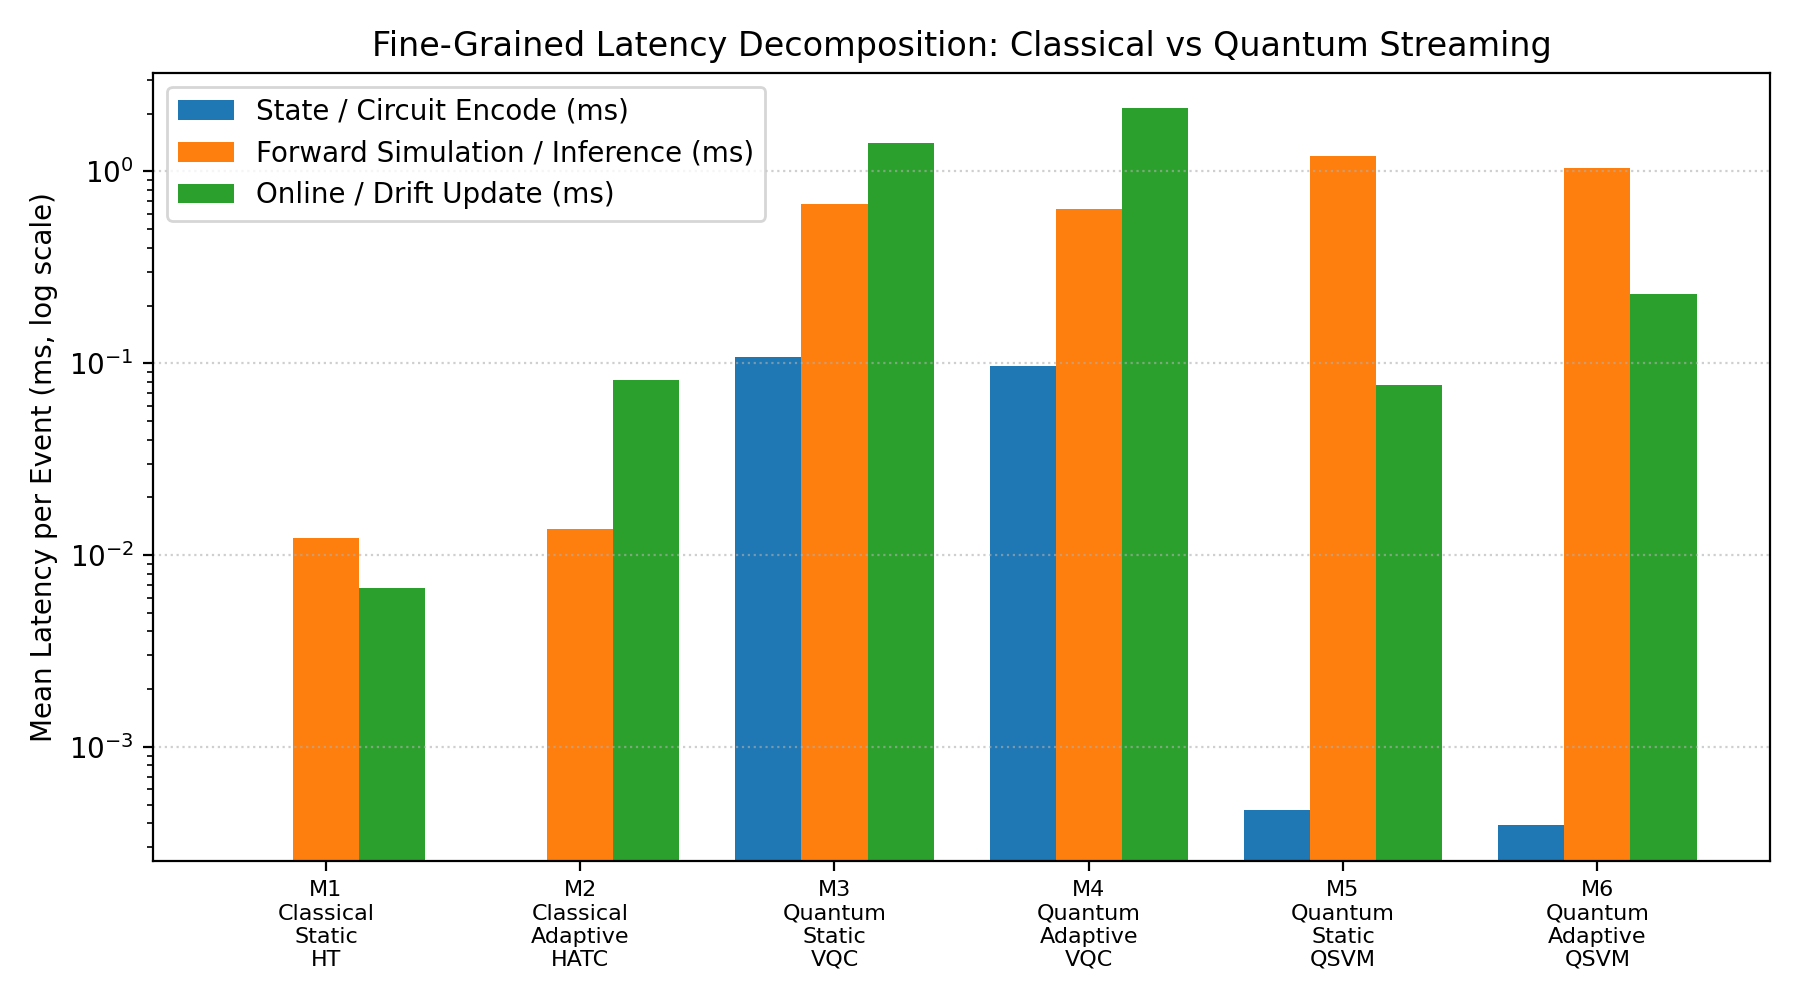
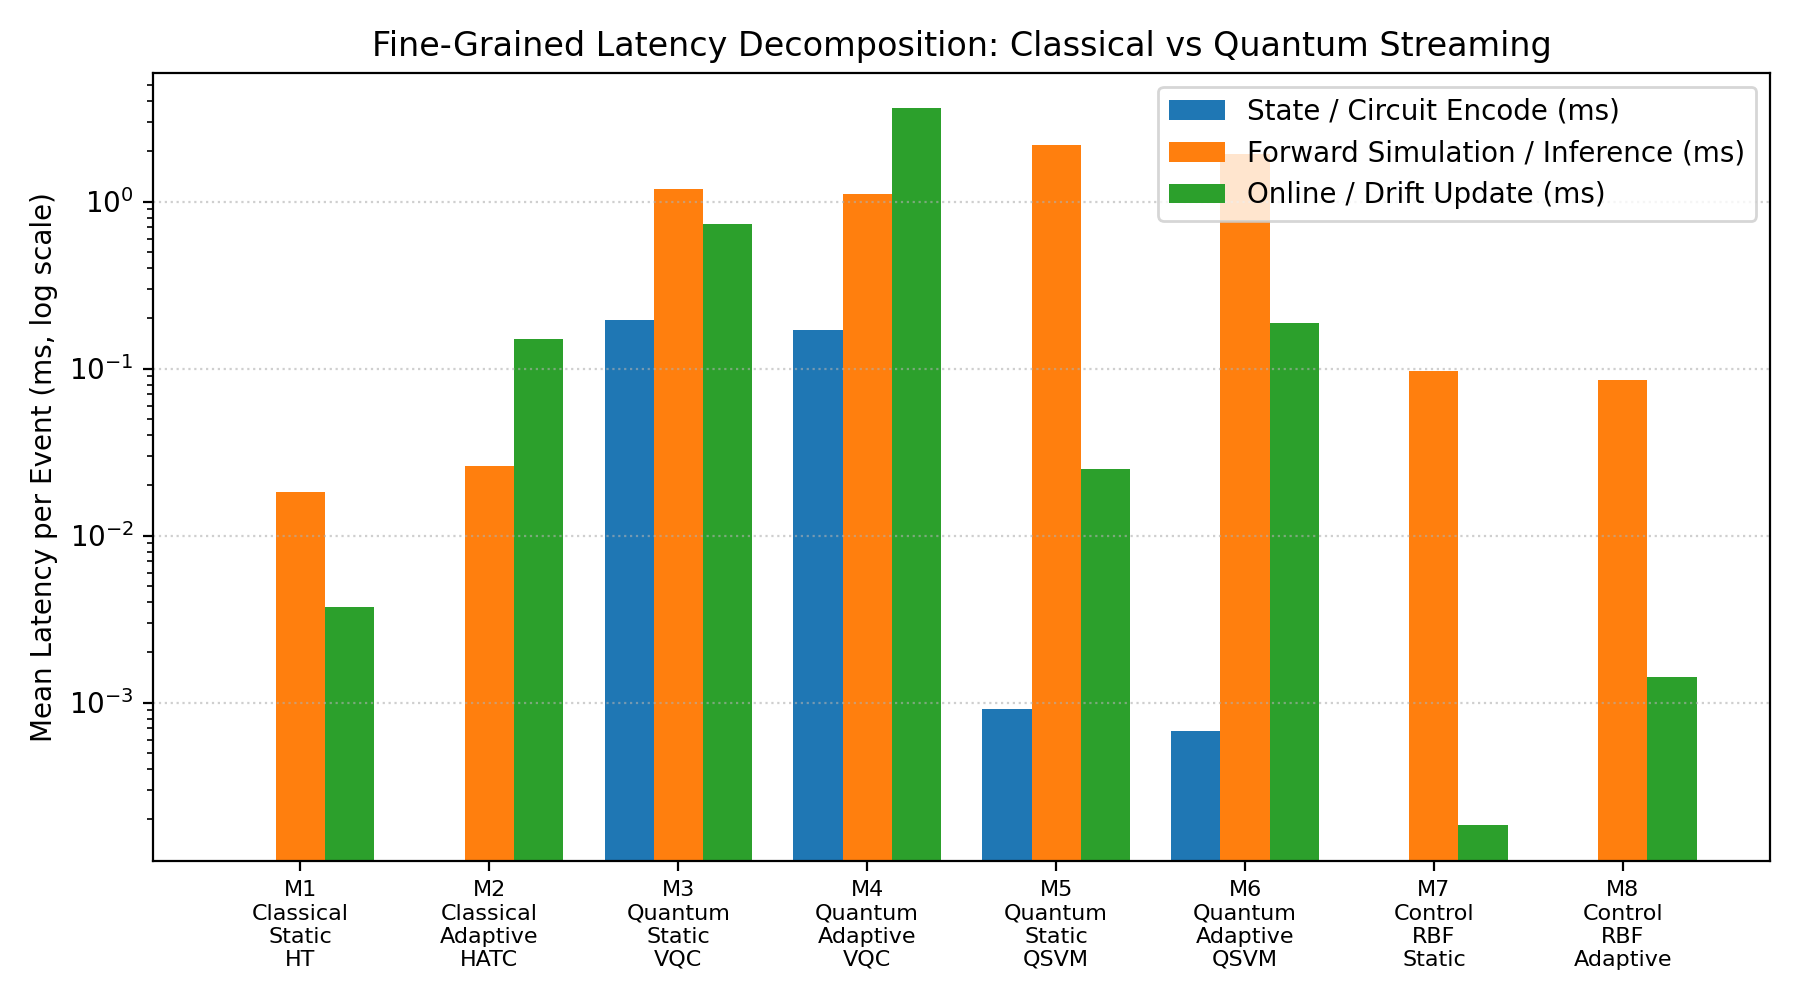
Adaptation diagnostics fix, comparable recovery episodes, docs sync, demo script
- M6 support-churn tracking (crashed adaptation diagnostics at first live
  drift alert); regression test added
- Drift alerts now open recovery episodes for ALL models so static-vs-adaptive
  N_recovery is comparable under the same alert (Hypothesis 2)
- PLAN.md: 4x2 matrix table + diagram, operational N_recovery definition,
  verified-latency wording
- README: N_recovery semantics (dip, sustain, horizon, censoring)
- experiments/demo_script.md: <=10 min walkthrough with pre-demo checklist
- docker-compose: drop obsolete version key

diff --git a/experiments/plots/ieee_results_table.tex b/experiments/plots/ieee_results_table.tex
@@ -1,16 +1,18 @@
 \begin{table}[htbp]
 \centering
-\caption{Prequential Accuracy, Latency Decomposition, and Drift Recovery on ELEC2}
+\caption{Prequential Accuracy (post-warmup), Latency Decomposition, and Drift Recovery on ELEC2}
 \begin{tabular}{lccccc}
 \hline
-Model & Cum. Acc. & Rolling F1 & $t_{\text{enc}}$ (ms) & $t_{\text{sim}}$ (ms) & $N_{\text{recovery}}$ \\
+Model & Acc. & Rolling F1 & $t_{\text{enc}}$ (ms) & $t_{\text{sim}}$ (ms) & $N_{\text{recovery}}$ \\
 \hline
-M1\_Classical\_Static\_HT & 0.825 & 0.766 & 0.000 & 0.012 & 5.0 \\
-M2\_Classical\_Adaptive\_HATC & 0.872 & 1.000 & 0.000 & 0.014 & 5.0 \\
-M3\_Quantum\_Static\_VQC & 0.666 & 0.463 & 0.107 & 0.679 & 6.5 \\
-M4\_Quantum\_Adaptive\_VQC & 0.666 & 0.463 & 0.097 & 0.639 & 6.5 \\
-M5\_Quantum\_Static\_QSVM & 0.776 & 0.939 & 0.000 & 1.208 & 5.0 \\
-M6\_Quantum\_Adaptive\_QSVM & 0.776 & 0.955 & 0.000 & 1.040 & 5.0 \\
+M1\_Classical\_Static\_HT & 0.722 & 0.111 & 0.000 & 0.018 & 0.0 \\
+M2\_Classical\_Adaptive\_HATC & 0.845 & 0.549 & 0.000 & 0.026 & 0.0 \\
+M3\_Quantum\_Static\_VQC & 0.693 & 0.000 & 0.194 & 1.194 & 0.0 \\
+M4\_Quantum\_Adaptive\_VQC & 0.695 & 0.000 & 0.170 & 1.107 & 355.3 \\
+M5\_Quantum\_Static\_QSVM & 0.730 & 0.111 & 0.001 & 2.167 & 0.0 \\
+M6\_Quantum\_Adaptive\_QSVM & 0.725 & 0.111 & 0.001 & 1.930 & 111.6 \\
+M7\_Control\_RBF\_Static & 0.728 & 0.111 & 0.000 & 0.096 & 0.0 \\
+M8\_Control\_RBF\_Adaptive & 0.723 & 0.111 & 0.000 & 0.085 & 148.4 \\
 \hline
 \end{tabular}
 \end{table}

diff --git a/src/evaluation/prequential_eval.py b/src/evaluation/prequential_eval.py
@@ -354,9 +354,12 @@ class PrequentialEvaluator:
             if drift_record is not None:
                 drift_records.append(drift_record)
                 if self._quantum_initialized:
-                    self.recovery_tracker.register_drift(
-                        m_name, event.event_id, pre_drift_acc[m_name]
-                    )
+                    # Open recovery episodes for ALL models so static-vs-adaptive
+                    # recovery is comparable under the same alert (PLAN.md Hypothesis 2).
+                    for m_name_all in self.model_names:
+                        self.recovery_tracker.register_drift(
+                            m_name_all, event.event_id, pre_drift_acc[m_name_all]
+                        )
                     X_wt, y_wt = self.worker.sliding_buffer.get_arrays()
                     update_times[m_name] += model.adapt_on_drift(X_wt, y_wt)
                     self.update_counts[m_name] += 1

diff --git a/src/models/qsvm_models.py b/src/models/qsvm_models.py
@@ -151,6 +151,7 @@ class DriftAdaptiveQuantumKernelModel(BasePennyLaneQSVM):
     def __init__(self, *args, **kwargs) -> None:
         super().__init__(*args, **kwargs)
         self.adaptation_count: int = 0
+        self.last_support_churn: float = 0.0
 
     def fit_initial(self, X_warmup: np.ndarray, y_warmup: np.ndarray) -> float:
         """Fit initial support set from W_0."""
@@ -183,6 +184,7 @@ class DriftAdaptiveQuantumKernelModel(BasePennyLaneQSVM):
             updated_y = y_sliding[-self.max_support_size :]
 
         self.adaptation_count += 1
+        self.last_support_churn = n_replace / max(1, n_current)
         return self._fit_from_support_arrays(updated_X, updated_y)
 
 class ClassicalRBFKernelModel:

diff --git a/experiments/run_offline_benchmark.py b/experiments/run_offline_benchmark.py
@@ -8,9 +8,13 @@ import csv
 import json
 import logging
 import platform
+import sys
 from dataclasses import asdict
 from pathlib import Path
 from typing import Dict, List
+
+# Allow running as `python experiments/run_offline_benchmark.py` from the repo root
+sys.path.insert(0, str(Path(__file__).resolve().parent.parent))
 
 import matplotlib
 matplotlib.use("Agg")

diff --git a/tests/test_pipeline.py b/tests/test_pipeline.py
@@ -156,6 +156,7 @@ def test_pennylane_qsvm_static_and_adaptive_predictions() -> None:
     t_adapt = m6.adapt_on_drift(X_new, y_new)
     assert t_adapt > 0.0
     assert m6.adaptation_count == 1
+    assert 0.0 < m6.last_support_churn <= 1.0
 
 
 def test_prequential_evaluator_and_influx_points_end_to_end() -> None:

diff --git a/PLAN.md b/PLAN.md
@@ -30,7 +30,7 @@ flowchart TD
         SW --> STREAM["Normalized 5-Feature Stream Vector<br/>[x_1, x_2, x_3, x_4, x_5]<br/>(label withheld until after prediction)"]
     end
 
-    subgraph Inference["3. Parallel Model Execution (3x2 Matrix)"]
+    subgraph Inference["3. Parallel Model Execution (4x2 Matrix)"]
         STREAM --> C1["M1: Classical Static<br/>(Hoeffding Tree - Fixed)"]
         STREAM --> C2["M2: Classical Adaptive<br/>(Hoeffding Tree + ADWIN)"]
         
@@ -39,10 +39,13 @@ flowchart TD
         
         STREAM --> K1["M5: Static Quantum Kernel<br/>(Fixed Support Set)"]
         STREAM --> K2["M6: Drift-Adaptive Quantum Kernel<br/>(Sliding Support Set on Alert)"]
+
+        STREAM --> R1["M7: Static RBF Kernel<br/>(Fixed Support Set)"]
+        STREAM --> R2["M8: Drift-Adaptive RBF Kernel<br/>(Sliding Support Set on Alert)"]
     end
 
     subgraph Metrics["4. Prequential Evaluation & Telemetry"]
-        C1 & C2 & Q1 & Q2 & K1 & K2 --> EVAL["Evaluation Engine<br/>- Prequential Accuracy & F1<br/>- Latency Breakdown (Prep / Encode / Sim)<br/>- Drift Recovery Timings"]
+        C1 & C2 & Q1 & Q2 & K1 & K2 & R1 & R2 --> EVAL["Evaluation Engine<br/>- Prequential Accuracy & F1<br/>- Latency Breakdown (Prep / Encode / Sim)<br/>- Drift Recovery Timings"]
         EVAL --> INFLUX[("InfluxDB v2 Time-Series Store")]
     end
 
@@ -76,7 +79,8 @@ flowchart TD
 
 ## 4. Models & Experimental Design (Dimension 2)
 
-We implement a complete **3 × 2 Comparative Matrix** evaluated on the identical stream:
+We implement a complete **4 × 2 Comparative Matrix** evaluated on the identical stream
+(extended from the originally planned 3×2 with classical RBF-kernel controls — see Sec. 11):
 
 | Paradigm | Model Variant | Architecture / Circuit Details | Update Mechanism | Role in Study |
 | :--- | :--- | :--- | :--- | :--- |
@@ -86,6 +90,8 @@ We implement a complete **3 × 2 Comparative Matrix** evaluated on the identical
 | **Quantum Parametric** | **M4: Drift-Adaptive VQC** | 5 Qubits, identical circuit to M3 | Fast forward inference during stationary periods; triggers **warm-started, few-step SPSA fine-tuning** upon drift alert. | **Proposed Novelty (VQC)** |
 | **Quantum Non-Parametric** | **M5: Static Quantum Kernel** | 5 Qubits, Fidelity Kernel $K(x, x') = \|\langle \phi(x) \| \phi(x') \rangle\|^2$, Scikit-Learn SVC | Support prototypes selected from $W_0$, frozen thereafter. | Quantum kernel baseline adapted from **Tscharke et al.** |
 | **Quantum Non-Parametric** | **M6: Drift-Adaptive Quantum Kernel** | 5 Qubits, identical quantum kernel circuit to M5 | Evaluates against active support set; **refreshes support set from recent sliding window** upon drift alert. | **Proposed Novelty (Kernel)** |
+| **Classical Kernel** | **M7: Static RBF Kernel** | Scikit-Learn RBF-SVM, support budget $K=80$ | Support prototypes selected from $W_0$, frozen thereafter. | Capacity-matched classical control (Hypothesis 4) |
+| **Classical Kernel** | **M8: Drift-Adaptive RBF Kernel** | Identical to M7 | Refreshes support set from recent sliding window upon drift alert (same rule as M6). | **Capacity-matched classical control (Hypothesis 4)** |
 
 ---
 
@@ -118,7 +124,7 @@ flowchart TD
 
 ### Metrics & Hypotheses to Compare
 1. **Prequential Accuracy & F1-Score:** Does Drift-Adaptive VQC/Kernel maintain accuracy through seasonal market shifts, while Static VQC/Kernel collapses?
-2. **Drift Recovery Rate ($N_{\text{recovery}}$):** How many events does each model require to return to baseline accuracy after an ADWIN drift signal?
+2. **Drift Recovery Rate ($N_{\text{recovery}}$):** How many events does each model require to return to baseline accuracy after an ADWIN drift signal? *Operational definition:* a model must first degrade below (pre-drift rolling accuracy − $\varepsilon$); $N_{\text{recovery}}$ then counts events from the alert until rolling accuracy re-enters the band, confirmed by $k$ consecutive qualifying events. Models that never degrade within the horizon score $N_{\text{recovery}} = 0$; episodes censored by the next drift are excluded.
 3. **Fine-Grained Latency Decomposition:**
    $$\Delta t_{\text{event}} = t_{\text{network}} + t_{\text{prep}} + t_{\text{encode}} + t_{\text{sim}} + t_{\text{update}}$$
    - Compare classical execution latency (expected in the sub-millisecond range — to be verified experimentally, not assumed) against quantum state preparation and simulation.
@@ -259,7 +265,7 @@ When execution begins, the pipeline will be validated across three stages:
 | **Proposal & Lit Review (5 pts)** | 2–3 papers summarized (a–e), problem statement, tool justification. | Updated `Proposal.md` incorporating ELEC2, Kafka, and the dual adaptation study. |
 | **Tool Integration (15 pts)** | Genuine streaming data flow, no isolated scripts, Kafka + Dashboard. | Real-time Kafka → Stream Worker → InfluxDB → Grafana pipeline. |
 | **Enhancement / Novelty (8 pts)** | Non-trivial, implemented enhancement over base papers. | Drift-Adaptive Quantum Learning (ADWIN-triggered VQC fine-tuning and Kernel support refresh). |
-| **Results & Evaluation (7 pts)** | Meaningful metrics, fair comparison, honest reporting of quantum bottlenecks. | 3×2 Comparative Matrix, prequential accuracy, latency breakdown, drift recovery rate. |
+| **Results & Evaluation (7 pts)** | Meaningful metrics, fair comparison, honest reporting of quantum bottlenecks. | 4×2 Comparative Matrix, prequential accuracy, latency breakdown, drift recovery rate. |
 | **Report Quality (7 pts)** | 6–8 pages, IEEE 2-column format, architecture diagrams. | Final report generated using IEEE conference template with auto-generated experimental plots. |
 | **Demo & Defense (8 pts)** | $\le$10 min live walkthrough, defense of tool choices and design trade-offs. | Live Grafana dashboard demonstrating real-time streaming, drift alerts, and quantum adaptation. |
 

diff --git a/experiments/demo_script.md b/experiments/demo_script.md
@@ -1,0 +1,85 @@
+# Demo Script — Quantum vs Classical Streaming Analytics (≤ 10 minutes)
+
+Live walkthrough of the Qompare pipeline. Keep the Grafana dashboard visible in a browser
+window throughout (http://localhost:3000, dashboard `streaming_quantum_analytics`).
+
+## 0. Before the demo (do NOT skip)
+
+```bash
+cd Qompare
+cp .env.example .env       # set INFLUXDB_TOKEN, INFLUXDB_ADMIN_PASSWORD, GRAFANA_ADMIN_PASSWORD
+source .venv/bin/activate
+docker compose down -v     # clean state: fresh Kafka topics, Influx bucket, Grafana state
+docker compose up -d
+docker compose ps          # wait for all four services to be healthy
+```
+
+## 1. Architecture & research question (60 s)
+
+- Open `PLAN.md` Section 2 architecture diagram.
+- One-liner: "Does the QML expressiveness advantage survive streaming latency and concept
+  drift? We run an 8-model 4×2 matrix — classical/quantum × static/adaptive — on the ELEC2
+  electricity market stream, evaluating prequentially (predict first, learn after)."
+
+## 2. Start the stream (30 s)
+
+```bash
+python -m src.producer.elec2_producer --max-events 2000
+```
+Show the JSON event schema going into Kafka topic `elec2-stream` (log output).
+
+## 3. Start the evaluation pipeline (30 s)
+
+```bash
+python -m src.main --mode kafka --max-events 2000
+```
+Point at the log lines: per-50-event rolling accuracy for M2/M4/M6/M8.
+
+## 4. Watch the live dashboard (2–3 min)
+
+- Panel 1: throughput gauge + cumulative event counter climbing.
+- Panel 2: rolling accuracy curves for all 8 models with ADWIN drift markers appearing.
+- Panel 3: latency breakdown — classical sub-millisecond vs quantum encode/sim bars
+  (log scale; the quantum overhead story).
+- Panel 4: M2 vs M4 prediction-agreement line.
+- Wait for (or point at) a `[DRIFT ALERT]` log line — the moment of the demo.
+
+## 5. Explain the adaptation mechanism (60 s)
+
+On the drift alert: warm-started SPSA fine-tuning (M4) / support-set refresh (M6, M8) on the
+sliding window W_t. Show the `adaptation_diagnostics` measurement (weight delta / support
+churn) proving the models actually moved.
+
+## 6. Offline results for the report (2 min)
+
+```bash
+python experiments/run_offline_benchmark.py --max-events 45312   # full stream (pre-run!)
+python experiments/run_offline_benchmark.py --sample-efficiency --max-events 3000
+```
+Show `experiments/plots/`:
+- `prequential_accuracy_curves.png` — accuracy through drifts with markers.
+- `latency_breakdown.png` — the quantum/classical trade-off.
+- `sample_efficiency.png` — Hypothesis 4: quantum kernel vs RBF across support budgets.
+- `benchmark_summary.csv` / `ieee_results_table.tex` — headline numbers.
+
+## 7. Wrap-up & honest findings (60 s)
+
+- Prequential protocol and reproducibility (seeds, versions in `run_metadata.json`).
+- What the results say about the quantum advantage under streaming constraints
+  (including negative results, if that is what the numbers show).
+- Limitations: statevector simulation only; labels assumed immediate.
+
+## Teardown
+
+```bash
+docker compose down       # add -v to wipe state for a clean re-run
+```
+
+## Pre-demo checklist
+
+- [ ] Full 45,312-event benchmark completed; plots regenerated
+- [ ] Sample-efficiency sweep completed
+- [ ] `docker compose up -d` healthy before audience arrives
+- [ ] Producer + worker commands copied to terminal tabs, un-run
+- [ ] Grafana dashboard opens at http://localhost:3000 without auth prompts mid-demo
+- [ ] Tests green (`python -m pytest tests/ -q`) in case of a "how do you validate" question

diff --git a/README.md b/README.md
@@ -99,8 +99,11 @@ metric, and InfluxDB point formatting.
 - **Drift detection:** one ADWIN detector (δ = 0.002) per adaptive model pair on the
   prequential error sequence; alerts trigger warm-started SPSA fine-tuning (M4) or
   support-set refresh (M6/M8).
-- **Drift recovery (N_recovery):** events from a drift alert until rolling accuracy
-  (window 100) reaches pre-drift accuracy − 2 pp and stays there for 20 consecutive events.
+- **Drift recovery (N_recovery):** a model must first degrade below
+  (pre-drift rolling accuracy − 2 pp); recovery then counts events from the alert until
+  rolling accuracy re-enters the band, confirmed by 20 consecutive qualifying events.
+  Models that never degrade within the 300-event horizon score 0; episodes censored by
+  the next drift are excluded from means.
 - **Reproducibility:** all seeds (`RANDOM_SEED=42`), dependency versions, and full config
   are recorded per run in `run_metadata.json`.
 
